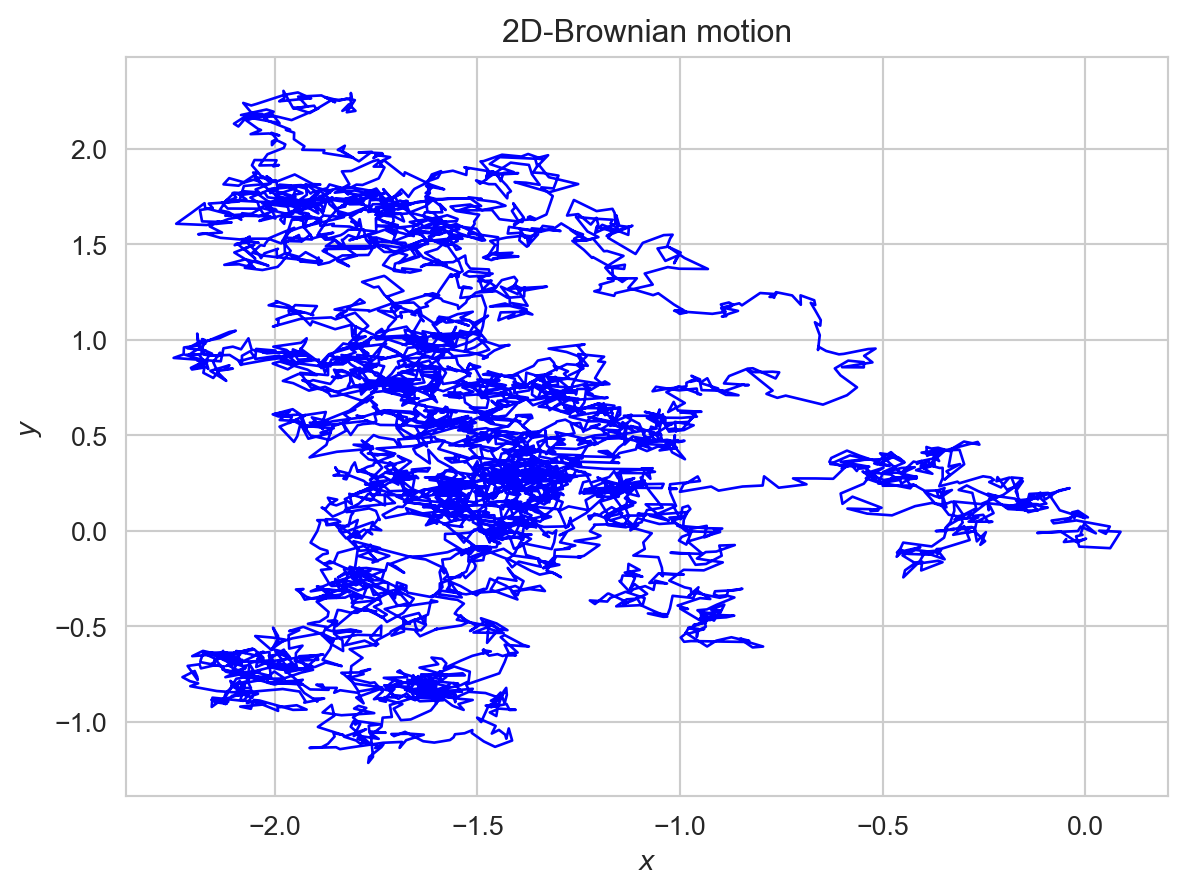
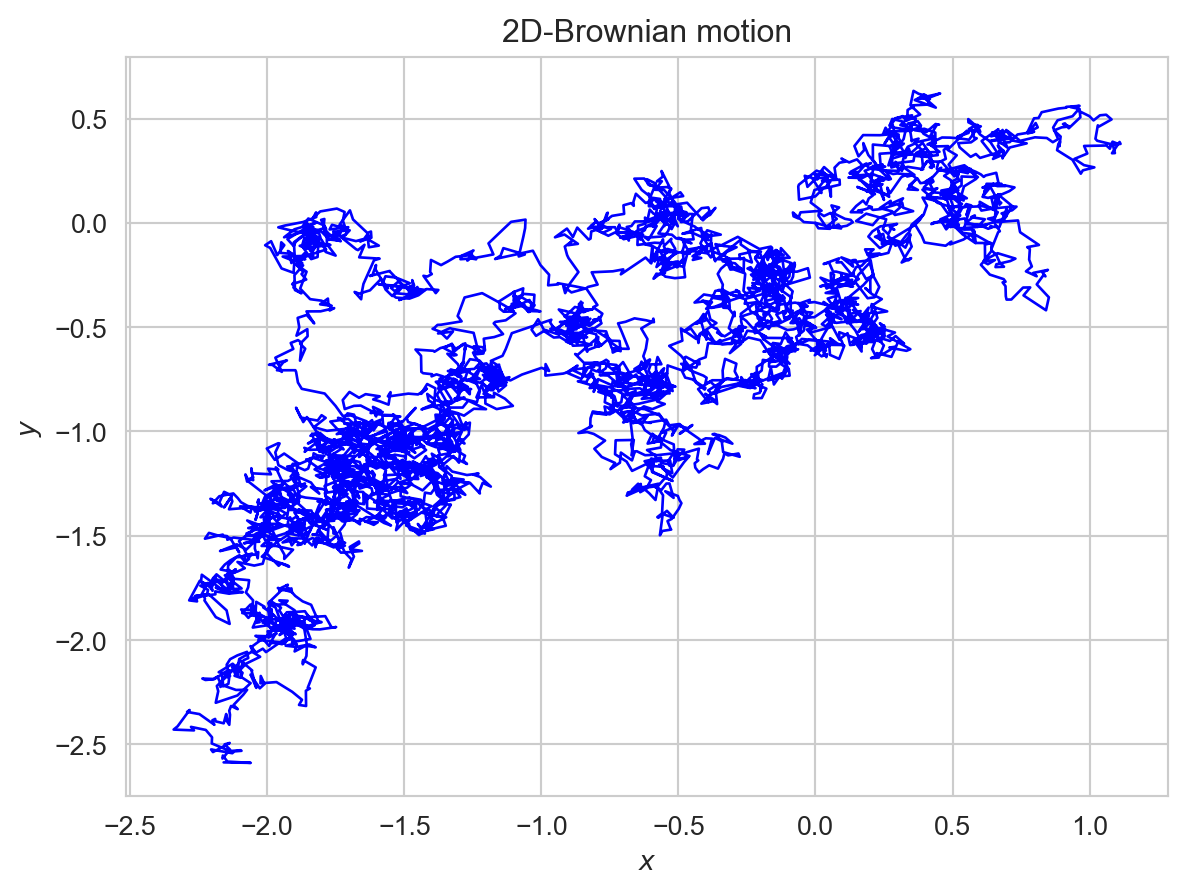
multivariate_ito_calculus

diff --git a/docs/posts/multivariate_ito_calculus/index.html b/docs/posts/multivariate_ito_calculus/index.html
@@ -218,18 +218,6 @@ B_{t} &amp; =(B_{t}^{(1)},\ldots,B_{t}^{(d)}),\quad t\geq0
 t\mapsto B_{t}(\omega) &amp; =(B_{t}^{(1)}(\omega),B_{t}^{(2)}(\omega),\ldots,B_{t}^{(d)}(\omega))
 \end{aligned}\]</span>
 <p>Of course, this curve is continuous, since each coordinate is. The below numerical project gives an example of one path of a two-dimensional brownian motion. This is a very rugged and intertwined curve! We might wonder, what it does as <span class="math inline">\(t\to\infty\)</span>. Does it wander around <span class="math inline">\((0,0)\)</span> ad infinitum or does it eventually escape to infinity? We will answer this question in a later section. For doing so, we shall need a version of Ito’s formula for multi-dimensional Brownian motion. We finish this section by noticing that it is also easy to construct Brownian motions in higher dimensions for which the coordinates are correlated.</p>
-<p><em>Example 2.</em> (Example of Brownian motion with correlated coordinates) Let <span class="math inline">\((B_{t}:t\geq0)\)</span> be a two dimensional brownian motion. Let <span class="math inline">\(-1&lt;\rho&lt;1\)</span>. We construct the two dimensional process as follows: <span class="math inline">\(W_{t}=(W_{t}^{(1)},W_{t}^{(2)})\)</span> where:</p>
-<span class="math display">\[\begin{aligned}
-W_{t}^{(1)} &amp; =B_{t}^{(1)}\\
-W_{t}^{(2)} &amp; =\rho B_{t}^{(1)}+\sqrt{1-\rho^{2}}B_{t}^{(2)}
-\end{aligned}\]</span>
-<p><span class="math inline">\(W_{t}^{(1)}=B_{t}^{(1)}\)</span> is Gaussian with mean <span class="math inline">\(0\)</span> and variance <span class="math inline">\(t\)</span>. Since, <span class="math inline">\(B_{t}^{(1)}\)</span> and <span class="math inline">\(B_{t}^{(2)}\)</span>are independent gaussian random variables and the sum of IID Gaussians is Gaussian, <span class="math inline">\(W_{t}^{(2)}\)</span> is Gaussian with mean <span class="math inline">\(0\)</span> and variance <span class="math inline">\(t\)</span>. The covariance between <span class="math inline">\(W_{t}^{(1)}\)</span> and <span class="math inline">\(W_{t}^{(2)}\)</span> is:</p>
-<span class="math display">\[\begin{aligned}
-\mathbf{E}[W_{t}^{(1)}W_{t}^{(2)}] &amp; =\mathbf{E}[B_{t}^{(1)}(\rho B_{t}^{(1)}+\sqrt{1-\rho^{2}}B_{t}^{(2)})]\\
-&amp; =\mathbf{E}[\rho(B_{t}^{(1)})^{2}+\sqrt{1-\rho^{2}}B_{t}^{(1)}B_{t}^{(2)}]\\
-&amp; =\rho t
-\end{aligned}\]</span>
-<p>Hence, the coordinates at time <span class="math inline">\(t\)</span> are not independent.</p>
 <section id="d-brownian-motion" class="level3">
 <h3 class="anchored" data-anchor-id="d-brownian-motion">2D Brownian Motion</h3>
 <p>Consider a two-dimensional Brownian motion <span class="math inline">\((B_{t}^{(1)},B_{2}^{(2)})\)</span> starting at <span class="math inline">\((0,0)\)</span>.</p>
@@ -257,8 +245,16 @@ W_{t}^{(2)} &amp; =\rho B_{t}^{(1)}+\sqrt{1-\rho^{2}}B_{t}^{(2)}
 <span id="cb1-19"><a href="#cb1-19" aria-hidden="true" tabindex="-1"></a>    <span class="kw">def</span> generate_paths(<span class="va">self</span>, num_paths : <span class="bu">int</span>):</span>
 <span id="cb1-20"><a href="#cb1-20" aria-hidden="true" tabindex="-1"></a>        steps <span class="op">=</span> <span class="bu">int</span>(<span class="va">self</span>.endpoint<span class="op">/</span><span class="va">self</span>.discretization)</span>
 <span id="cb1-21"><a href="#cb1-21" aria-hidden="true" tabindex="-1"></a>        delta_z <span class="op">=</span> np.sqrt(<span class="va">self</span>.discretization) <span class="op">*</span> np.random.randn(num_paths,<span class="dv">2</span>,steps)</span>
-<span id="cb1-22"><a href="#cb1-22" aria-hidden="true" tabindex="-1"></a>        paths <span class="op">=</span> np.cumsum(delta_z,axis<span class="op">=</span><span class="dv">2</span>)</span>
-<span id="cb1-23"><a href="#cb1-23" aria-hidden="true" tabindex="-1"></a>        <span class="cf">return</span> paths</span></code><button title="Copy to Clipboard" class="code-copy-button"><i class="bi"></i></button></pre></div>
+<span id="cb1-22"><a href="#cb1-22" aria-hidden="true" tabindex="-1"></a>        </span>
+<span id="cb1-23"><a href="#cb1-23" aria-hidden="true" tabindex="-1"></a>        <span class="co"># paths has shape [num_paths,2,num_steps]</span></span>
+<span id="cb1-24"><a href="#cb1-24" aria-hidden="true" tabindex="-1"></a>        paths <span class="op">=</span> np.cumsum(delta_z,axis<span class="op">=</span><span class="dv">2</span>)</span>
+<span id="cb1-25"><a href="#cb1-25" aria-hidden="true" tabindex="-1"></a></span>
+<span id="cb1-26"><a href="#cb1-26" aria-hidden="true" tabindex="-1"></a>        <span class="co"># Brownian motion has position (0,0) at time t=0</span></span>
+<span id="cb1-27"><a href="#cb1-27" aria-hidden="true" tabindex="-1"></a>        <span class="co"># Append initial position </span></span>
+<span id="cb1-28"><a href="#cb1-28" aria-hidden="true" tabindex="-1"></a>        init_position <span class="op">=</span> np.zeros((num_paths,<span class="dv">2</span>,<span class="dv">1</span>))</span>
+<span id="cb1-29"><a href="#cb1-29" aria-hidden="true" tabindex="-1"></a>        paths <span class="op">=</span> np.append(init_position,paths,axis<span class="op">=</span><span class="dv">2</span>)</span>
+<span id="cb1-30"><a href="#cb1-30" aria-hidden="true" tabindex="-1"></a></span>
+<span id="cb1-31"><a href="#cb1-31" aria-hidden="true" tabindex="-1"></a>        <span class="cf">return</span> paths</span></code><button title="Copy to Clipboard" class="code-copy-button"><i class="bi"></i></button></pre></div>
 </div>
 <p>We can then configure and use <code>BrownianMotion2D</code> objects as we please.</p>
 <div class="cell" data-execution_count="2">
@@ -283,28 +279,99 @@ W_{t}^{(2)} &amp; =\rho B_{t}^{(1)}+\sqrt{1-\rho^{2}}B_{t}^{(2)}
 </section>
 <section id="brownian-motion-with-correlated-coordinates" class="level3">
 <h3 class="anchored" data-anchor-id="brownian-motion-with-correlated-coordinates">Brownian motion with correlated coordinates</h3>
+<p><em>Example 2.</em> (Example of Brownian motion with correlated coordinates) Let <span class="math inline">\((B_{t}:t\geq0)\)</span> be a two dimensional brownian motion. Let <span class="math inline">\(-1&lt;\rho&lt;1\)</span>. We construct the two dimensional process as follows: <span class="math inline">\(W_{t}=(W_{t}^{(1)},W_{t}^{(2)})\)</span> where:</p>
+<span class="math display">\[\begin{aligned}
+W_{t}^{(1)} &amp; =B_{t}^{(1)}\\
+W_{t}^{(2)} &amp; =\rho B_{t}^{(1)}+\sqrt{1-\rho^{2}}B_{t}^{(2)}
+\end{aligned}\]</span>
+<p><span class="math inline">\(W_{t}^{(1)}=B_{t}^{(1)}\)</span> is Gaussian with mean <span class="math inline">\(0\)</span> and variance <span class="math inline">\(t\)</span>. Since, <span class="math inline">\(B_{t}^{(1)}\)</span> and <span class="math inline">\(B_{t}^{(2)}\)</span>are independent gaussian random variables and the sum of IID Gaussians is Gaussian, <span class="math inline">\(W_{t}^{(2)}\)</span> is Gaussian with mean <span class="math inline">\(0\)</span> and variance <span class="math inline">\(t\)</span>. The covariance between <span class="math inline">\(W_{t}^{(1)}\)</span> and <span class="math inline">\(W_{t}^{(2)}\)</span> is:</p>
+<span class="math display">\[\begin{aligned}
+\mathbf{E}[W_{t}^{(1)}W_{t}^{(2)}] &amp; =\mathbf{E}[B_{t}^{(1)}(\rho B_{t}^{(1)}+\sqrt{1-\rho^{2}}B_{t}^{(2)})]\\
+&amp; =\mathbf{E}[\rho(B_{t}^{(1)})^{2}+\sqrt{1-\rho^{2}}B_{t}^{(1)}B_{t}^{(2)}]\\
+&amp; =\rho t
+\end{aligned}\]</span>
+<p>Hence, the coordinates at time <span class="math inline">\(t\)</span> are not independent.</p>
 <p>Consider now the process <span class="math inline">\((W_{t}:t\geq0)\)</span> for <span class="math inline">\(\rho=1/2\)</span> as in example 2. Let’s plot one path of this process on the plane <span class="math inline">\(\mathbf{R}^{2}\)</span> on the time-interval <span class="math inline">\([0,5]\)</span> using a discretization of <span class="math inline">\(0.001\)</span>.</p>
 <div class="cell" data-execution_count="3">
 <div class="sourceCode cell-code" id="cb3"><pre class="sourceCode python code-with-copy"><code class="sourceCode python"><span id="cb3-1"><a href="#cb3-1" aria-hidden="true" tabindex="-1"></a><span class="kw">class</span> BrownianMotion2DWithCorrelatedCoords(BrownianMotion2D):</span>
 <span id="cb3-2"><a href="#cb3-2" aria-hidden="true" tabindex="-1"></a>    <span class="co">"""</span></span>
-<span id="cb3-3"><a href="#cb3-3" aria-hidden="true" tabindex="-1"></a><span class="co">    Generate sample paths for a 2d-brownian motion with correlation rho</span></span>
-<span id="cb3-4"><a href="#cb3-4" aria-hidden="true" tabindex="-1"></a><span class="co">    """</span></span>
-<span id="cb3-5"><a href="#cb3-5" aria-hidden="true" tabindex="-1"></a></span>
-<span id="cb3-6"><a href="#cb3-6" aria-hidden="true" tabindex="-1"></a>    <span class="kw">def</span> <span class="fu">__init__</span>(</span>
-<span id="cb3-7"><a href="#cb3-7" aria-hidden="true" tabindex="-1"></a>        <span class="va">self</span>, endpoint: <span class="bu">float</span> <span class="op">=</span> <span class="fl">1.0</span>, </span>
-<span id="cb3-8"><a href="#cb3-8" aria-hidden="true" tabindex="-1"></a>        discretization: <span class="bu">float</span> <span class="op">=</span> <span class="fl">0.01</span>, </span>
-<span id="cb3-9"><a href="#cb3-9" aria-hidden="true" tabindex="-1"></a>        rho: <span class="bu">float</span> <span class="op">=</span> <span class="fl">0.0</span></span>
-<span id="cb3-10"><a href="#cb3-10" aria-hidden="true" tabindex="-1"></a>    ):</span>
-<span id="cb3-11"><a href="#cb3-11" aria-hidden="true" tabindex="-1"></a>        <span class="va">self</span>.endpoint <span class="op">=</span> endpoint</span>
-<span id="cb3-12"><a href="#cb3-12" aria-hidden="true" tabindex="-1"></a>        <span class="va">self</span>.discretization <span class="op">=</span> discretization</span>
-<span id="cb3-13"><a href="#cb3-13" aria-hidden="true" tabindex="-1"></a>        <span class="va">self</span>.rho <span class="op">=</span> rho</span>
-<span id="cb3-14"><a href="#cb3-14" aria-hidden="true" tabindex="-1"></a></span>
-<span id="cb3-15"><a href="#cb3-15" aria-hidden="true" tabindex="-1"></a>    <span class="kw">def</span> generate_paths(<span class="va">self</span>, num_paths: <span class="bu">int</span>):</span>
+<span id="cb3-3"><a href="#cb3-3" aria-hidden="true" tabindex="-1"></a><span class="co">    Generate sample paths for a 2d-brownian motion</span></span>
+<span id="cb3-4"><a href="#cb3-4" aria-hidden="true" tabindex="-1"></a><span class="co">    have correlated coordiantes</span></span>
+<span id="cb3-5"><a href="#cb3-5" aria-hidden="true" tabindex="-1"></a><span class="co">    """</span></span>
+<span id="cb3-6"><a href="#cb3-6" aria-hidden="true" tabindex="-1"></a></span>
+<span id="cb3-7"><a href="#cb3-7" aria-hidden="true" tabindex="-1"></a>    <span class="kw">def</span> <span class="fu">__init__</span>(</span>
+<span id="cb3-8"><a href="#cb3-8" aria-hidden="true" tabindex="-1"></a>        <span class="va">self</span>, </span>
+<span id="cb3-9"><a href="#cb3-9" aria-hidden="true" tabindex="-1"></a>        endpoint: <span class="bu">float</span> <span class="op">=</span> <span class="fl">1.0</span>, </span>
+<span id="cb3-10"><a href="#cb3-10" aria-hidden="true" tabindex="-1"></a>        discretization: <span class="bu">float</span> <span class="op">=</span> <span class="fl">0.01</span>, </span>
+<span id="cb3-11"><a href="#cb3-11" aria-hidden="true" tabindex="-1"></a>        rho: <span class="bu">float</span> <span class="op">=</span> <span class="fl">0.0</span></span>
+<span id="cb3-12"><a href="#cb3-12" aria-hidden="true" tabindex="-1"></a>    ):</span>
+<span id="cb3-13"><a href="#cb3-13" aria-hidden="true" tabindex="-1"></a>        <span class="va">self</span>.endpoint <span class="op">=</span> endpoint</span>
+<span id="cb3-14"><a href="#cb3-14" aria-hidden="true" tabindex="-1"></a>        <span class="va">self</span>.discretization <span class="op">=</span> discretization</span>
+<span id="cb3-15"><a href="#cb3-15" aria-hidden="true" tabindex="-1"></a>        <span class="va">self</span>.rho <span class="op">=</span> rho</span>
 <span id="cb3-16"><a href="#cb3-16" aria-hidden="true" tabindex="-1"></a></span>
-<span id="cb3-17"><a href="#cb3-17" aria-hidden="true" tabindex="-1"></a>        <span class="co"># Call the base class generate_paths() method to generate a pair of</span></span>
-<span id="cb3-18"><a href="#cb3-18" aria-hidden="true" tabindex="-1"></a>        <span class="co"># independent brownian motion paths. It returns a tensor of</span></span>
-<span id="cb3-19"><a href="#cb3-19" aria-hidden="true" tabindex="-1"></a>        <span class="co"># shape (num_paths, 2, num_steps)</span></span>
-<span id="cb3-20"><a href="#cb3-20" aria-hidden="true" tabindex="-1"></a>        paths <span class="op">=</span> BrownianMotion2D.generate_paths(num_paths)</span></code><button title="Copy to Clipboard" class="code-copy-button"><i class="bi"></i></button></pre></div>
+<span id="cb3-17"><a href="#cb3-17" aria-hidden="true" tabindex="-1"></a>    <span class="kw">def</span> generate_paths(<span class="va">self</span>, num_paths: <span class="bu">int</span>):</span>
+<span id="cb3-18"><a href="#cb3-18" aria-hidden="true" tabindex="-1"></a></span>
+<span id="cb3-19"><a href="#cb3-19" aria-hidden="true" tabindex="-1"></a>        <span class="co"># Call the base class generate_paths() method to generate a pair of</span></span>
+<span id="cb3-20"><a href="#cb3-20" aria-hidden="true" tabindex="-1"></a>        <span class="co"># independent brownian motion paths. It returns a tensor of</span></span>
+<span id="cb3-21"><a href="#cb3-21" aria-hidden="true" tabindex="-1"></a>        <span class="co"># shape (num_paths, 2, num_steps)</span></span>
+<span id="cb3-22"><a href="#cb3-22" aria-hidden="true" tabindex="-1"></a>        paths <span class="op">=</span> <span class="bu">super</span>().generate_paths(num_paths<span class="op">=</span>num_paths)</span>
+<span id="cb3-23"><a href="#cb3-23" aria-hidden="true" tabindex="-1"></a></span>
+<span id="cb3-24"><a href="#cb3-24" aria-hidden="true" tabindex="-1"></a>        <span class="co"># Extract the brownian motions B1(t) and B2(t)</span></span>
+<span id="cb3-25"><a href="#cb3-25" aria-hidden="true" tabindex="-1"></a>        <span class="co"># B1(t) and B2(t) have dimensions [num_paths,num_steps]</span></span>
+<span id="cb3-26"><a href="#cb3-26" aria-hidden="true" tabindex="-1"></a>        x_coord <span class="op">=</span> paths[:, <span class="dv">0</span>, :]</span>
+<span id="cb3-27"><a href="#cb3-27" aria-hidden="true" tabindex="-1"></a>        y_coord <span class="op">=</span> paths[:, <span class="dv">1</span>, :]</span>
+<span id="cb3-28"><a href="#cb3-28" aria-hidden="true" tabindex="-1"></a></span>
+<span id="cb3-29"><a href="#cb3-29" aria-hidden="true" tabindex="-1"></a>        <span class="co"># Apply the transformation</span></span>
+<span id="cb3-30"><a href="#cb3-30" aria-hidden="true" tabindex="-1"></a>        <span class="co"># W1(t) = B1(t)</span></span>
+<span id="cb3-31"><a href="#cb3-31" aria-hidden="true" tabindex="-1"></a>        <span class="co"># W2(t) = rho * B1(t) + sqrt(1 - rho**2) B2(t)</span></span>
+<span id="cb3-32"><a href="#cb3-32" aria-hidden="true" tabindex="-1"></a>        x_coord <span class="op">=</span> x_coord</span>
+<span id="cb3-33"><a href="#cb3-33" aria-hidden="true" tabindex="-1"></a>        y_coord <span class="op">=</span> <span class="va">self</span>.rho <span class="op">*</span> x_coord <span class="op">+</span> np.sqrt(<span class="dv">1</span> <span class="op">-</span> <span class="va">self</span>.rho<span class="op">**</span><span class="dv">2</span>) <span class="op">*</span> y_coord</span>
+<span id="cb3-34"><a href="#cb3-34" aria-hidden="true" tabindex="-1"></a></span>
+<span id="cb3-35"><a href="#cb3-35" aria-hidden="true" tabindex="-1"></a>        <span class="co"># Assemble back the x- and y- coordinates</span></span>
+<span id="cb3-36"><a href="#cb3-36" aria-hidden="true" tabindex="-1"></a>        x_coord <span class="op">=</span> np.expand_dims(x_coord, axis<span class="op">=</span><span class="dv">1</span>)</span>
+<span id="cb3-37"><a href="#cb3-37" aria-hidden="true" tabindex="-1"></a>        y_coord <span class="op">=</span> np.expand_dims(y_coord, axis<span class="op">=</span><span class="dv">1</span>)</span>
+<span id="cb3-38"><a href="#cb3-38" aria-hidden="true" tabindex="-1"></a></span>
+<span id="cb3-39"><a href="#cb3-39" aria-hidden="true" tabindex="-1"></a>        <span class="co"># Return a tensor of shape [num_paths,d=2,num_steps]</span></span>
+<span id="cb3-40"><a href="#cb3-40" aria-hidden="true" tabindex="-1"></a>        <span class="cf">return</span> np.concatenate([x_coord, y_coord], axis<span class="op">=</span><span class="dv">1</span>)</span></code><button title="Copy to Clipboard" class="code-copy-button"><i class="bi"></i></button></pre></div>
+</div>
+<p>Let’s configure the <code>BrownianMotion2DWithCorrelatedCoords</code> engine with the settings <code>endpoint=5.0</code>, <code>discretization=0.001</code> and <code>rho=0.5</code> and generate a sample path.</p>
+<div class="cell" data-execution_count="4">
+<details>
+<summary>Show the code</summary>
+<div class="sourceCode cell-code" id="cb4"><pre class="sourceCode python code-with-copy"><code class="sourceCode python"><span id="cb4-1"><a href="#cb4-1" aria-hidden="true" tabindex="-1"></a>bm <span class="op">=</span> BrownianMotion2DWithCorrelatedCoords(</span>
+<span id="cb4-2"><a href="#cb4-2" aria-hidden="true" tabindex="-1"></a>    endpoint<span class="op">=</span><span class="fl">5.0</span>,</span>
+<span id="cb4-3"><a href="#cb4-3" aria-hidden="true" tabindex="-1"></a>    discretization<span class="op">=</span><span class="fl">0.001</span>,</span>
+<span id="cb4-4"><a href="#cb4-4" aria-hidden="true" tabindex="-1"></a>    rho<span class="op">=</span><span class="fl">0.50</span></span>
+<span id="cb4-5"><a href="#cb4-5" aria-hidden="true" tabindex="-1"></a>)</span>
+<span id="cb4-6"><a href="#cb4-6" aria-hidden="true" tabindex="-1"></a>paths <span class="op">=</span> bm.generate_paths(num_paths<span class="op">=</span><span class="dv">1</span>)</span>
+<span id="cb4-7"><a href="#cb4-7" aria-hidden="true" tabindex="-1"></a>path <span class="op">=</span> paths[<span class="dv">0</span>]</span>
+<span id="cb4-8"><a href="#cb4-8" aria-hidden="true" tabindex="-1"></a></span>
+<span id="cb4-9"><a href="#cb4-9" aria-hidden="true" tabindex="-1"></a>plt.xlabel(<span class="vs">r'$x$'</span>)</span>
+<span id="cb4-10"><a href="#cb4-10" aria-hidden="true" tabindex="-1"></a>plt.ylabel(<span class="vs">r'$y$'</span>)</span>
+<span id="cb4-11"><a href="#cb4-11" aria-hidden="true" tabindex="-1"></a>plt.title(<span class="vs">r'Correlated Brownian motion $W(t)=(W^{(1)}(t),W^{(2)}(t))$'</span>)</span>
+<span id="cb4-12"><a href="#cb4-12" aria-hidden="true" tabindex="-1"></a>plt.grid(<span class="va">True</span>)</span>
+<span id="cb4-13"><a href="#cb4-13" aria-hidden="true" tabindex="-1"></a>plt.plot(path[<span class="dv">0</span>],path[<span class="dv">1</span>],linewidth<span class="op">=</span><span class="dv">1</span>,color<span class="op">=</span><span class="st">'blue'</span>)</span>
+<span id="cb4-14"><a href="#cb4-14" aria-hidden="true" tabindex="-1"></a>plt.show()</span></code><button title="Copy to Clipboard" class="code-copy-button"><i class="bi"></i></button></pre></div>
+</details>
+<div class="cell-output cell-output-display">
+<p><img src="index_files/figure-html/cell-5-output-1.png" width="595" height="452"></p>
+</div>
+</div>
+<div class="cell" data-execution_count="5">
+<details>
+<summary>Show the code</summary>
+<div class="sourceCode cell-code" id="cb5"><pre class="sourceCode python code-with-copy"><code class="sourceCode python"><span id="cb5-1"><a href="#cb5-1" aria-hidden="true" tabindex="-1"></a>plt.xlabel(<span class="vs">r'$t$'</span>)</span>
+<span id="cb5-2"><a href="#cb5-2" aria-hidden="true" tabindex="-1"></a>plt.ylabel(<span class="vs">r'$W_t$'</span>)</span>
+<span id="cb5-3"><a href="#cb5-3" aria-hidden="true" tabindex="-1"></a>plt.title(<span class="vs">r'Correlated Brownian motion paths'</span>)</span>
+<span id="cb5-4"><a href="#cb5-4" aria-hidden="true" tabindex="-1"></a>plt.grid(<span class="va">True</span>)</span>
+<span id="cb5-5"><a href="#cb5-5" aria-hidden="true" tabindex="-1"></a>t <span class="op">=</span> np.linspace(<span class="fl">0.0</span>,stop<span class="op">=</span><span class="fl">5.0</span>,num<span class="op">=</span><span class="dv">5001</span>)</span>
+<span id="cb5-6"><a href="#cb5-6" aria-hidden="true" tabindex="-1"></a>plt.plot(t,path[<span class="dv">0</span>],linewidth<span class="op">=</span><span class="fl">0.75</span>)</span>
+<span id="cb5-7"><a href="#cb5-7" aria-hidden="true" tabindex="-1"></a>plt.plot(t,path[<span class="dv">1</span>],linewidth<span class="op">=</span><span class="fl">0.75</span>)</span>
+<span id="cb5-8"><a href="#cb5-8" aria-hidden="true" tabindex="-1"></a>plt.show()</span></code><button title="Copy to Clipboard" class="code-copy-button"><i class="bi"></i></button></pre></div>
+</details>
+<div class="cell-output cell-output-display">
+<p><img src="index_files/figure-html/cell-6-output-1.png" width="595" height="447"></p>
+</div>
 </div>
 </section>
 </section>

diff --git a/docs/index.html b/docs/index.html
@@ -156,7 +156,7 @@ ul.task-list li input[type="checkbox"] {
 
 <div class="quarto-listing quarto-listing-container-grid" id="listing-listing">
 <div class="list grid quarto-listing-cols-3">
-<div class="g-col-1" data-index="0" data-categories="Stochastic Calculus" data-listing-date-sort="1720044000000" data-listing-file-modified-sort="1720081036504" data-listing-date-modified-sort="NaN" data-listing-reading-time-sort="10">
+<div class="g-col-1" data-index="0" data-categories="Stochastic Calculus" data-listing-date-sort="1720044000000" data-listing-file-modified-sort="1720086195986" data-listing-date-modified-sort="NaN" data-listing-reading-time-sort="12">
 <a href="./posts/multivariate_ito_calculus/index.html" class="quarto-grid-link">
 <div class="quarto-grid-item card h-100 card-left">
 <p class="card-img-top">
